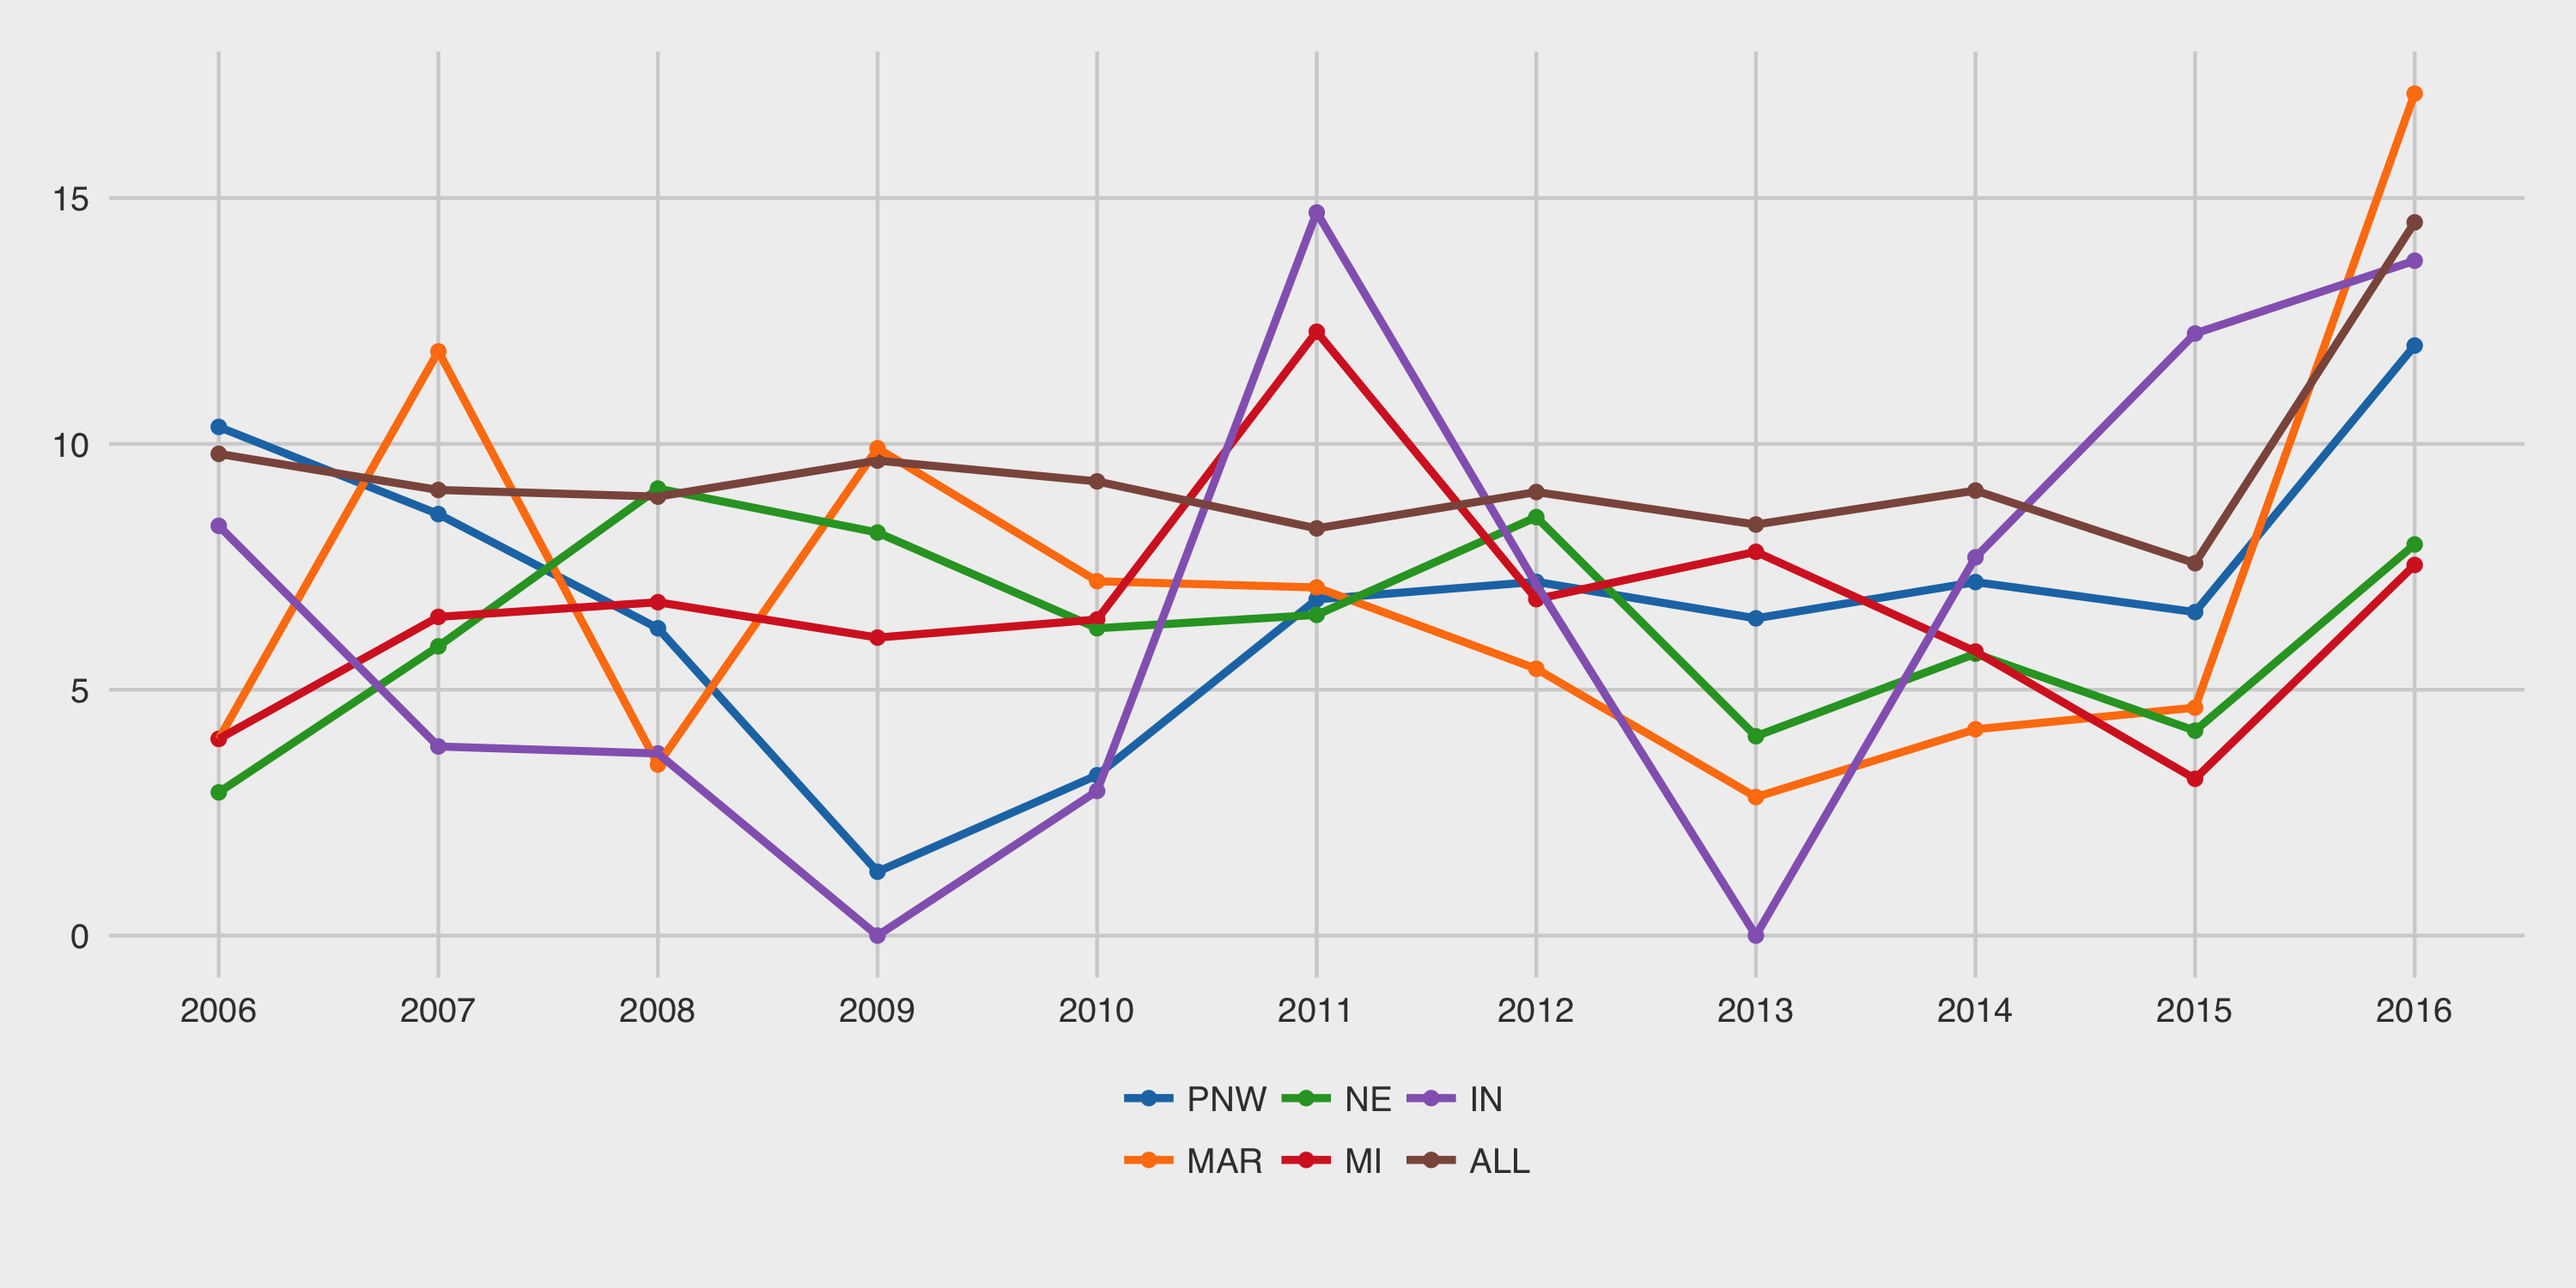
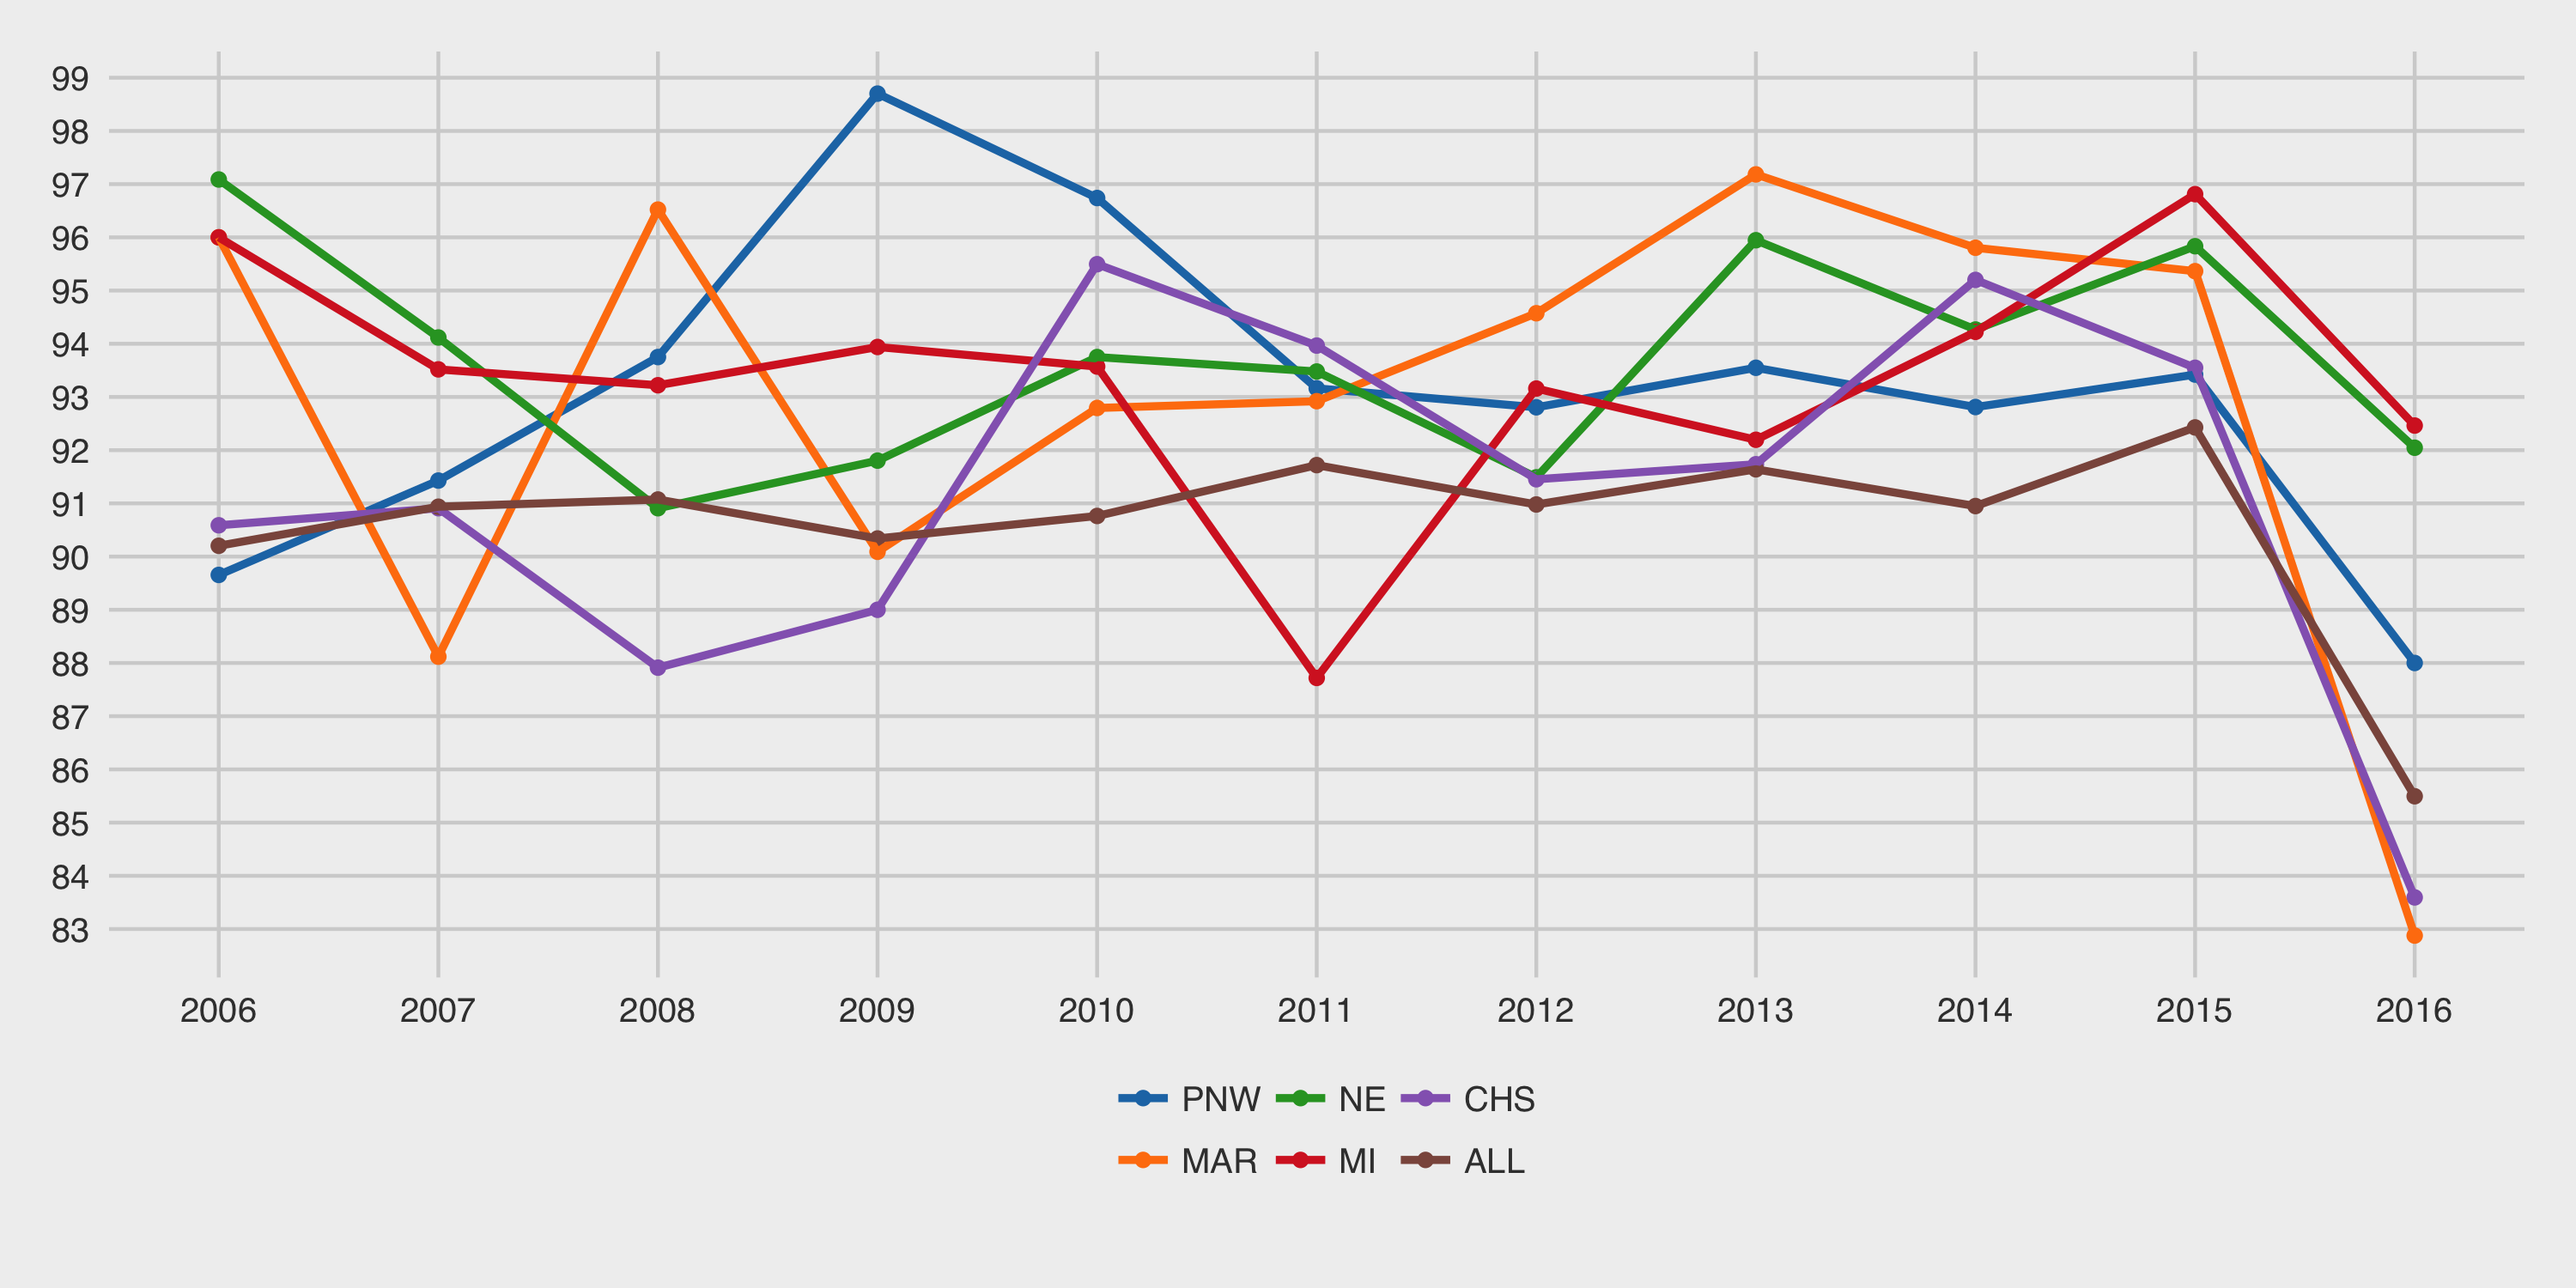
Change plot to retention percentages to makes a little more sense. Include this info in Readme

diff --git a/readme.md b/readme.md
@@ -5,6 +5,9 @@ I created this at the reqest of Michael Corsetto to look into the impact that th
 ## Output
 ![](plot.png)
 
+#### Reading
+This is a plot of the retention percentages for each year ([2005–2016]). Higher is better. 
+
 
 ## Running
 There's an included R script included (`attrition.r`) that will generate a plot of team attritions in various regions. 
